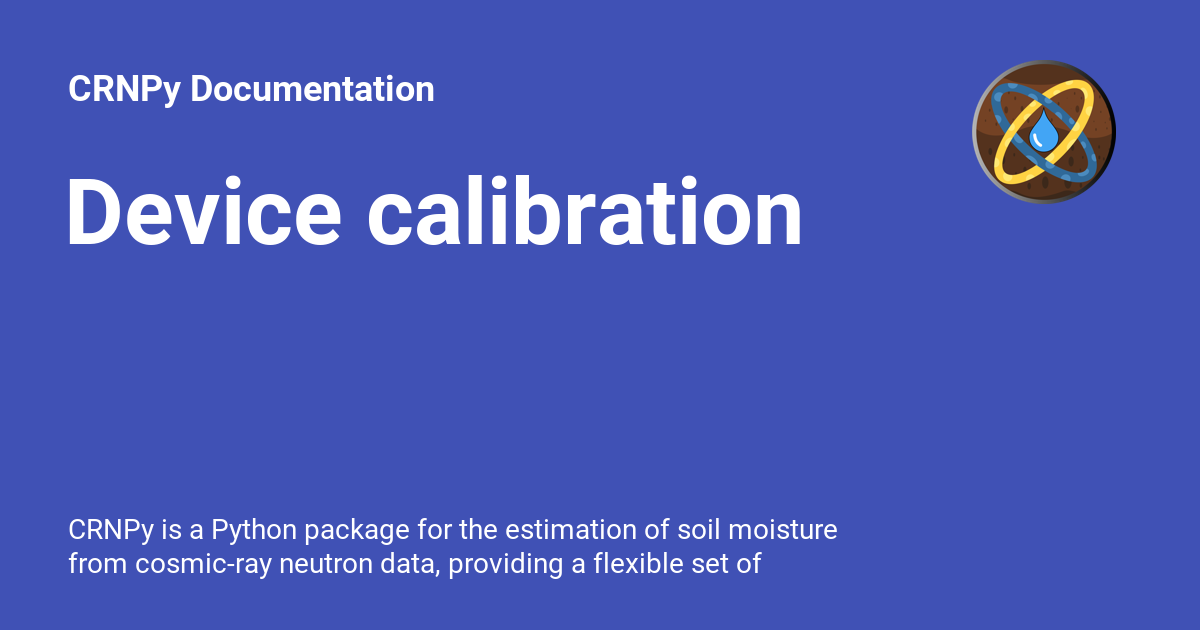
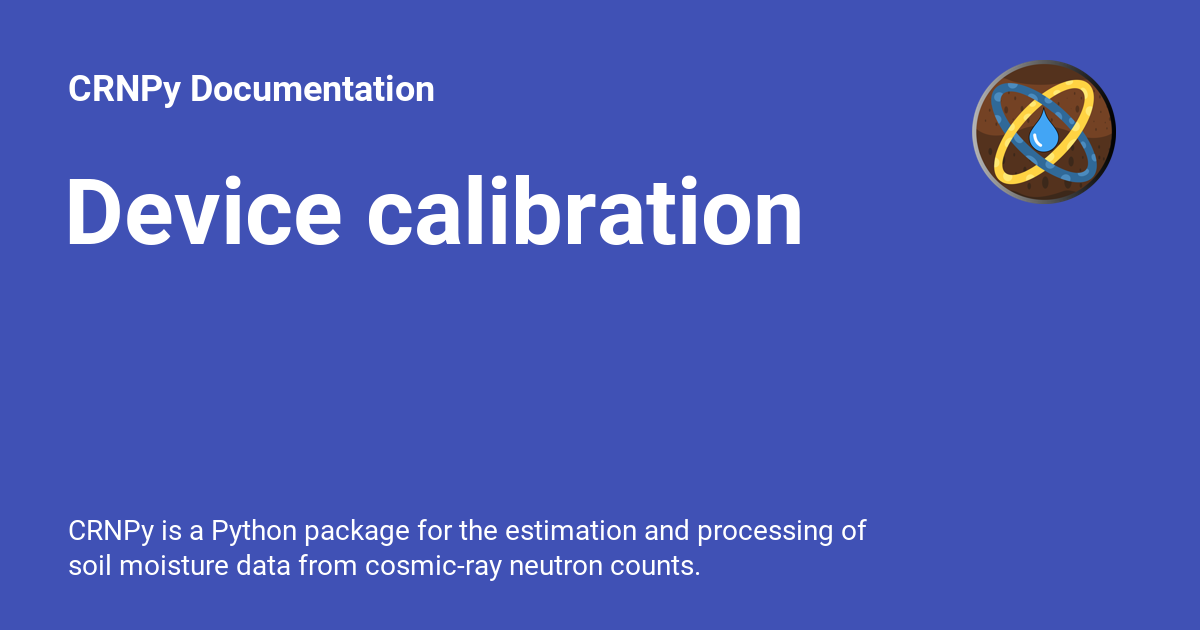
Deployed e4f62d5 with MkDocs version: 1.4.3

Changed region(s): [[0.0617, 0.8143, 0.74, 0.9349]]

diff --git a/examples/rover/Hydroinnova_rover_example-Copy1/index.html b/examples/rover/Hydroinnova_rover_example-Copy1/index.html
@@ -6,7 +6,7 @@
       <meta charset="utf-8">
       <meta name="viewport" content="width=device-width,initial-scale=1">
       
-        <meta name="description" content="CRNPy is a Python package for the estimation of soil moisture from cosmic-ray neutron data, providing a flexible set of correction routines.">
+        <meta name="description" content="CRNPy is a Python package for the estimation and processing of soil moisture data from cosmic-ray neutron counts.">
       
       
       
@@ -54,7 +54,7 @@
       
         <meta  property="og:title"  content="Hydroinnova rover example Copy1 - CRNPy Documentation" >
       
-        <meta  property="og:description"  content="CRNPy is a Python package for the estimation of soil moisture from cosmic-ray neutron data, providing a flexible set of correction routines." >
+        <meta  property="og:description"  content="CRNPy is a Python package for the estimation and processing of soil moisture data from cosmic-ray neutron counts." >
       
         <meta  property="og:image"  content="https://soilwater.github.io/crnpy/assets/images/social/examples/rover/Hydroinnova_rover_example-Copy1.png" >
       
@@ -70,7 +70,7 @@
       
         <meta  name="twitter:title"  content="Hydroinnova rover example Copy1 - CRNPy Documentation" >
       
-        <meta  name="twitter:description"  content="CRNPy is a Python package for the estimation of soil moisture from cosmic-ray neutron data, providing a flexible set of correction routines." >
+        <meta  name="twitter:description"  content="CRNPy is a Python package for the estimation and processing of soil moisture data from cosmic-ray neutron counts." >
       
         <meta  name="twitter:image"  content="https://soilwater.github.io/crnpy/assets/images/social/examples/rover/Hydroinnova_rover_example-Copy1.png" >
       

diff --git a/examples/calibration/calibration/index.html b/examples/calibration/calibration/index.html
@@ -6,7 +6,7 @@
       <meta charset="utf-8">
       <meta name="viewport" content="width=device-width,initial-scale=1">
       
-        <meta name="description" content="CRNPy is a Python package for the estimation of soil moisture from cosmic-ray neutron data, providing a flexible set of correction routines.">
+        <meta name="description" content="CRNPy is a Python package for the estimation and processing of soil moisture data from cosmic-ray neutron counts.">
       
       
       
@@ -58,7 +58,7 @@
       
         <meta  property="og:title"  content="Device calibration - CRNPy Documentation" >
       
-        <meta  property="og:description"  content="CRNPy is a Python package for the estimation of soil moisture from cosmic-ray neutron data, providing a flexible set of correction routines." >
+        <meta  property="og:description"  content="CRNPy is a Python package for the estimation and processing of soil moisture data from cosmic-ray neutron counts." >
       
         <meta  property="og:image"  content="https://soilwater.github.io/crnpy/assets/images/social/examples/calibration/calibration.png" >
       
@@ -74,7 +74,7 @@
       
         <meta  name="twitter:title"  content="Device calibration - CRNPy Documentation" >
       
-        <meta  name="twitter:description"  content="CRNPy is a Python package for the estimation of soil moisture from cosmic-ray neutron data, providing a flexible set of correction routines." >
+        <meta  name="twitter:description"  content="CRNPy is a Python package for the estimation and processing of soil moisture data from cosmic-ray neutron counts." >
       
         <meta  name="twitter:image"  content="https://soilwater.github.io/crnpy/assets/images/social/examples/calibration/calibration.png" >
       

diff --git a/examples/rover/Hydroinnova_rover_example/index.html b/examples/rover/Hydroinnova_rover_example/index.html
@@ -6,7 +6,7 @@
       <meta charset="utf-8">
       <meta name="viewport" content="width=device-width,initial-scale=1">
       
-        <meta name="description" content="CRNPy is a Python package for the estimation of soil moisture from cosmic-ray neutron data, providing a flexible set of correction routines.">
+        <meta name="description" content="CRNPy is a Python package for the estimation and processing of soil moisture data from cosmic-ray neutron counts.">
       
       
       
@@ -58,7 +58,7 @@
       
         <meta  property="og:title"  content="Example 2 - CRNPy Documentation" >
       
-        <meta  property="og:description"  content="CRNPy is a Python package for the estimation of soil moisture from cosmic-ray neutron data, providing a flexible set of correction routines." >
+        <meta  property="og:description"  content="CRNPy is a Python package for the estimation and processing of soil moisture data from cosmic-ray neutron counts." >
       
         <meta  property="og:image"  content="https://soilwater.github.io/crnpy/assets/images/social/examples/rover/Hydroinnova_rover_example.png" >
       
@@ -74,7 +74,7 @@
       
         <meta  name="twitter:title"  content="Example 2 - CRNPy Documentation" >
       
-        <meta  name="twitter:description"  content="CRNPy is a Python package for the estimation of soil moisture from cosmic-ray neutron data, providing a flexible set of correction routines." >
+        <meta  name="twitter:description"  content="CRNPy is a Python package for the estimation and processing of soil moisture data from cosmic-ray neutron counts." >
       
         <meta  name="twitter:image"  content="https://soilwater.github.io/crnpy/assets/images/social/examples/rover/Hydroinnova_rover_example.png" >
       

diff --git a/examples/stationary/example_RDT_station/index.html b/examples/stationary/example_RDT_station/index.html
@@ -6,7 +6,7 @@
       <meta charset="utf-8">
       <meta name="viewport" content="width=device-width,initial-scale=1">
       
-        <meta name="description" content="CRNPy is a Python package for the estimation of soil moisture from cosmic-ray neutron data, providing a flexible set of correction routines.">
+        <meta name="description" content="CRNPy is a Python package for the estimation and processing of soil moisture data from cosmic-ray neutron counts.">
       
       
       
@@ -58,7 +58,7 @@
       
         <meta  property="og:title"  content="Example 1 - CRNPy Documentation" >
       
-        <meta  property="og:description"  content="CRNPy is a Python package for the estimation of soil moisture from cosmic-ray neutron data, providing a flexible set of correction routines." >
+        <meta  property="og:description"  content="CRNPy is a Python package for the estimation and processing of soil moisture data from cosmic-ray neutron counts." >
       
         <meta  property="og:image"  content="https://soilwater.github.io/crnpy/assets/images/social/examples/stationary/example_RDT_station.png" >
       
@@ -74,7 +74,7 @@
       
         <meta  name="twitter:title"  content="Example 1 - CRNPy Documentation" >
       
-        <meta  name="twitter:description"  content="CRNPy is a Python package for the estimation of soil moisture from cosmic-ray neutron data, providing a flexible set of correction routines." >
+        <meta  name="twitter:description"  content="CRNPy is a Python package for the estimation and processing of soil moisture data from cosmic-ray neutron counts." >
       
         <meta  name="twitter:image"  content="https://soilwater.github.io/crnpy/assets/images/social/examples/stationary/example_RDT_station.png" >
       

diff --git a/examples/overview/index.html b/examples/overview/index.html
@@ -6,7 +6,7 @@
       <meta charset="utf-8">
       <meta name="viewport" content="width=device-width,initial-scale=1">
       
-        <meta name="description" content="CRNPy is a Python package for the estimation of soil moisture from cosmic-ray neutron data, providing a flexible set of correction routines.">
+        <meta name="description" content="CRNPy is a Python package for the estimation and processing of soil moisture data from cosmic-ray neutron counts.">
       
       
       
@@ -58,7 +58,7 @@
       
         <meta  property="og:title"  content="CRNPy Examples Overview - CRNPy Documentation" >
       
-        <meta  property="og:description"  content="CRNPy is a Python package for the estimation of soil moisture from cosmic-ray neutron data, providing a flexible set of correction routines." >
+        <meta  property="og:description"  content="CRNPy is a Python package for the estimation and processing of soil moisture data from cosmic-ray neutron counts." >
       
         <meta  property="og:image"  content="https://soilwater.github.io/crnpy/assets/images/social/examples/overview.png" >
       
@@ -74,7 +74,7 @@
       
         <meta  name="twitter:title"  content="CRNPy Examples Overview - CRNPy Documentation" >
       
-        <meta  name="twitter:description"  content="CRNPy is a Python package for the estimation of soil moisture from cosmic-ray neutron data, providing a flexible set of correction routines." >
+        <meta  name="twitter:description"  content="CRNPy is a Python package for the estimation and processing of soil moisture data from cosmic-ray neutron counts." >
       
         <meta  name="twitter:image"  content="https://soilwater.github.io/crnpy/assets/images/social/examples/overview.png" >
       

diff --git a/correction_routines/index.html b/correction_routines/index.html
@@ -6,7 +6,7 @@
       <meta charset="utf-8">
       <meta name="viewport" content="width=device-width,initial-scale=1">
       
-        <meta name="description" content="CRNPy is a Python package for the estimation of soil moisture from cosmic-ray neutron data, providing a flexible set of correction routines.">
+        <meta name="description" content="CRNPy is a Python package for the estimation and processing of soil moisture data from cosmic-ray neutron counts.">
       
       
       
@@ -58,7 +58,7 @@
       
         <meta  property="og:title"  content="Correction routines - CRNPy Documentation" >
       
-        <meta  property="og:description"  content="CRNPy is a Python package for the estimation of soil moisture from cosmic-ray neutron data, providing a flexible set of correction routines." >
+        <meta  property="og:description"  content="CRNPy is a Python package for the estimation and processing of soil moisture data from cosmic-ray neutron counts." >
       
         <meta  property="og:image"  content="https://soilwater.github.io/crnpy/assets/images/social/correction_routines.png" >
       
@@ -74,7 +74,7 @@
       
         <meta  name="twitter:title"  content="Correction routines - CRNPy Documentation" >
       
-        <meta  name="twitter:description"  content="CRNPy is a Python package for the estimation of soil moisture from cosmic-ray neutron data, providing a flexible set of correction routines." >
+        <meta  name="twitter:description"  content="CRNPy is a Python package for the estimation and processing of soil moisture data from cosmic-ray neutron counts." >
       
         <meta  name="twitter:image"  content="https://soilwater.github.io/crnpy/assets/images/social/correction_routines.png" >
       

diff --git a/reference/index.html b/reference/index.html
@@ -6,7 +6,7 @@
       <meta charset="utf-8">
       <meta name="viewport" content="width=device-width,initial-scale=1">
       
-        <meta name="description" content="CRNPy is a Python package for the estimation of soil moisture from cosmic-ray neutron data, providing a flexible set of correction routines.">
+        <meta name="description" content="CRNPy is a Python package for the estimation and processing of soil moisture data from cosmic-ray neutron counts.">
       
       
       
@@ -56,7 +56,7 @@
       
         <meta  property="og:title"  content="Reference - CRNPy Documentation" >
       
-        <meta  property="og:description"  content="CRNPy is a Python package for the estimation of soil moisture from cosmic-ray neutron data, providing a flexible set of correction routines." >
+        <meta  property="og:description"  content="CRNPy is a Python package for the estimation and processing of soil moisture data from cosmic-ray neutron counts." >
       
         <meta  property="og:image"  content="https://soilwater.github.io/crnpy/assets/images/social/reference.png" >
       
@@ -72,7 +72,7 @@
       
         <meta  name="twitter:title"  content="Reference - CRNPy Documentation" >
       
-        <meta  name="twitter:description"  content="CRNPy is a Python package for the estimation of soil moisture from cosmic-ray neutron data, providing a flexible set of correction routines." >
+        <meta  name="twitter:description"  content="CRNPy is a Python package for the estimation and processing of soil moisture data from cosmic-ray neutron counts." >
       
         <meta  name="twitter:image"  content="https://soilwater.github.io/crnpy/assets/images/social/reference.png" >
       

diff --git a/index.html b/index.html
@@ -6,7 +6,7 @@
       <meta charset="utf-8">
       <meta name="viewport" content="width=device-width,initial-scale=1">
       
-        <meta name="description" content="CRNPy is a Python package for the estimation of soil moisture from cosmic-ray neutron data, providing a flexible set of correction routines.">
+        <meta name="description" content="CRNPy is a Python package for the estimation and processing of soil moisture data from cosmic-ray neutron counts.">
       
       
       
@@ -56,7 +56,7 @@
       
         <meta  property="og:title"  content="Home" >
       
-        <meta  property="og:description"  content="CRNPy is a Python package for the estimation of soil moisture from cosmic-ray neutron data, providing a flexible set of correction routines." >
+        <meta  property="og:description"  content="CRNPy is a Python package for the estimation and processing of soil moisture data from cosmic-ray neutron counts." >
       
         <meta  property="og:image"  content="https://soilwater.github.io/crnpy/assets/images/social/index.png" >
       
@@ -72,7 +72,7 @@
       
         <meta  name="twitter:title"  content="Home" >
       
-        <meta  name="twitter:description"  content="CRNPy is a Python package for the estimation of soil moisture from cosmic-ray neutron data, providing a flexible set of correction routines." >
+        <meta  name="twitter:description"  content="CRNPy is a Python package for the estimation and processing of soil moisture data from cosmic-ray neutron counts." >
       
         <meta  name="twitter:image"  content="https://soilwater.github.io/crnpy/assets/images/social/index.png" >
       

diff --git a/404.html b/404.html
@@ -6,7 +6,7 @@
       <meta charset="utf-8">
       <meta name="viewport" content="width=device-width,initial-scale=1">
       
-        <meta name="description" content="CRNPy is a Python package for the estimation of soil moisture from cosmic-ray neutron data, providing a flexible set of correction routines.">
+        <meta name="description" content="CRNPy is a Python package for the estimation and processing of soil moisture data from cosmic-ray neutron counts.">
       
       
       
